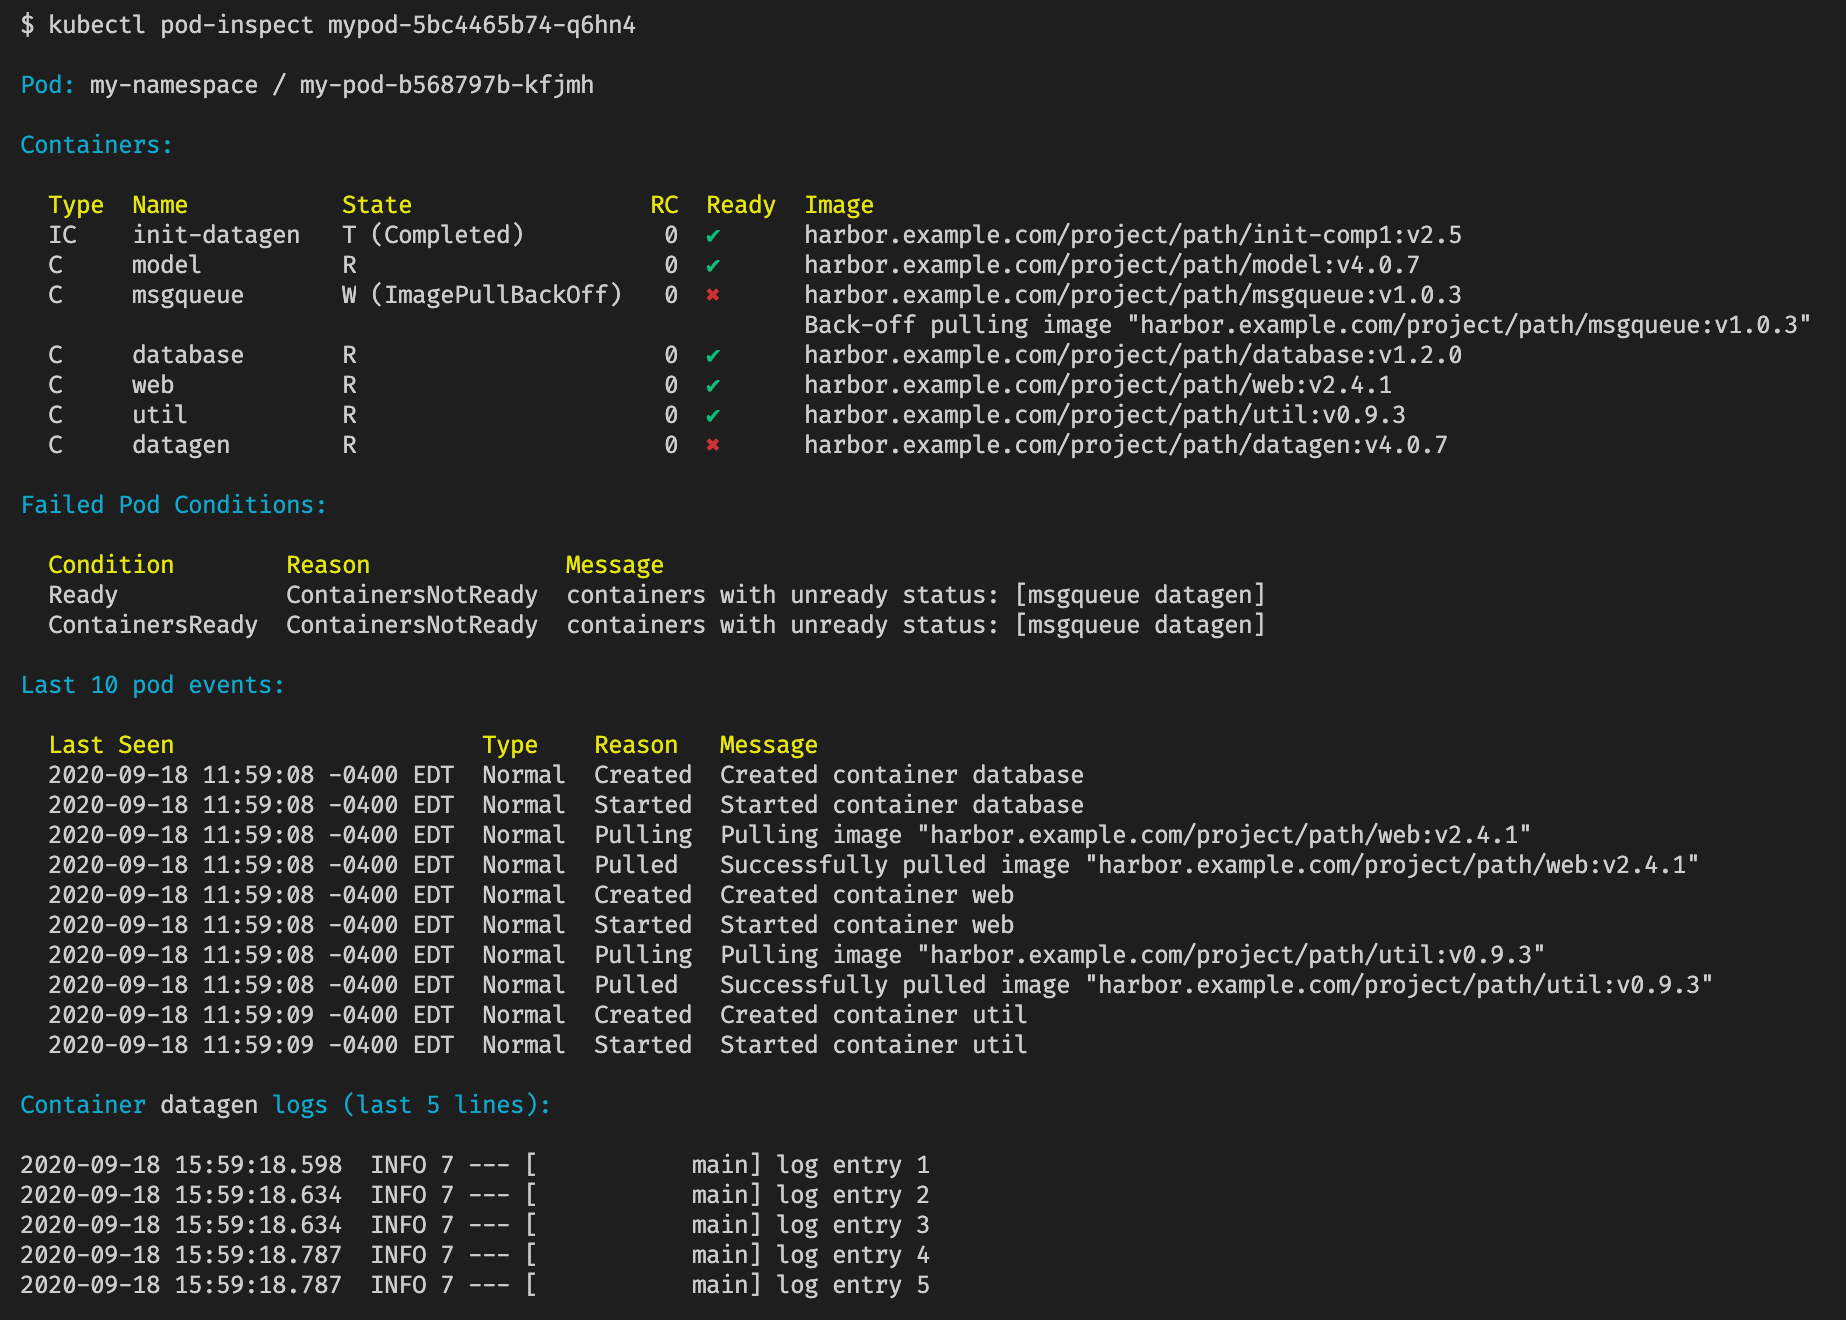
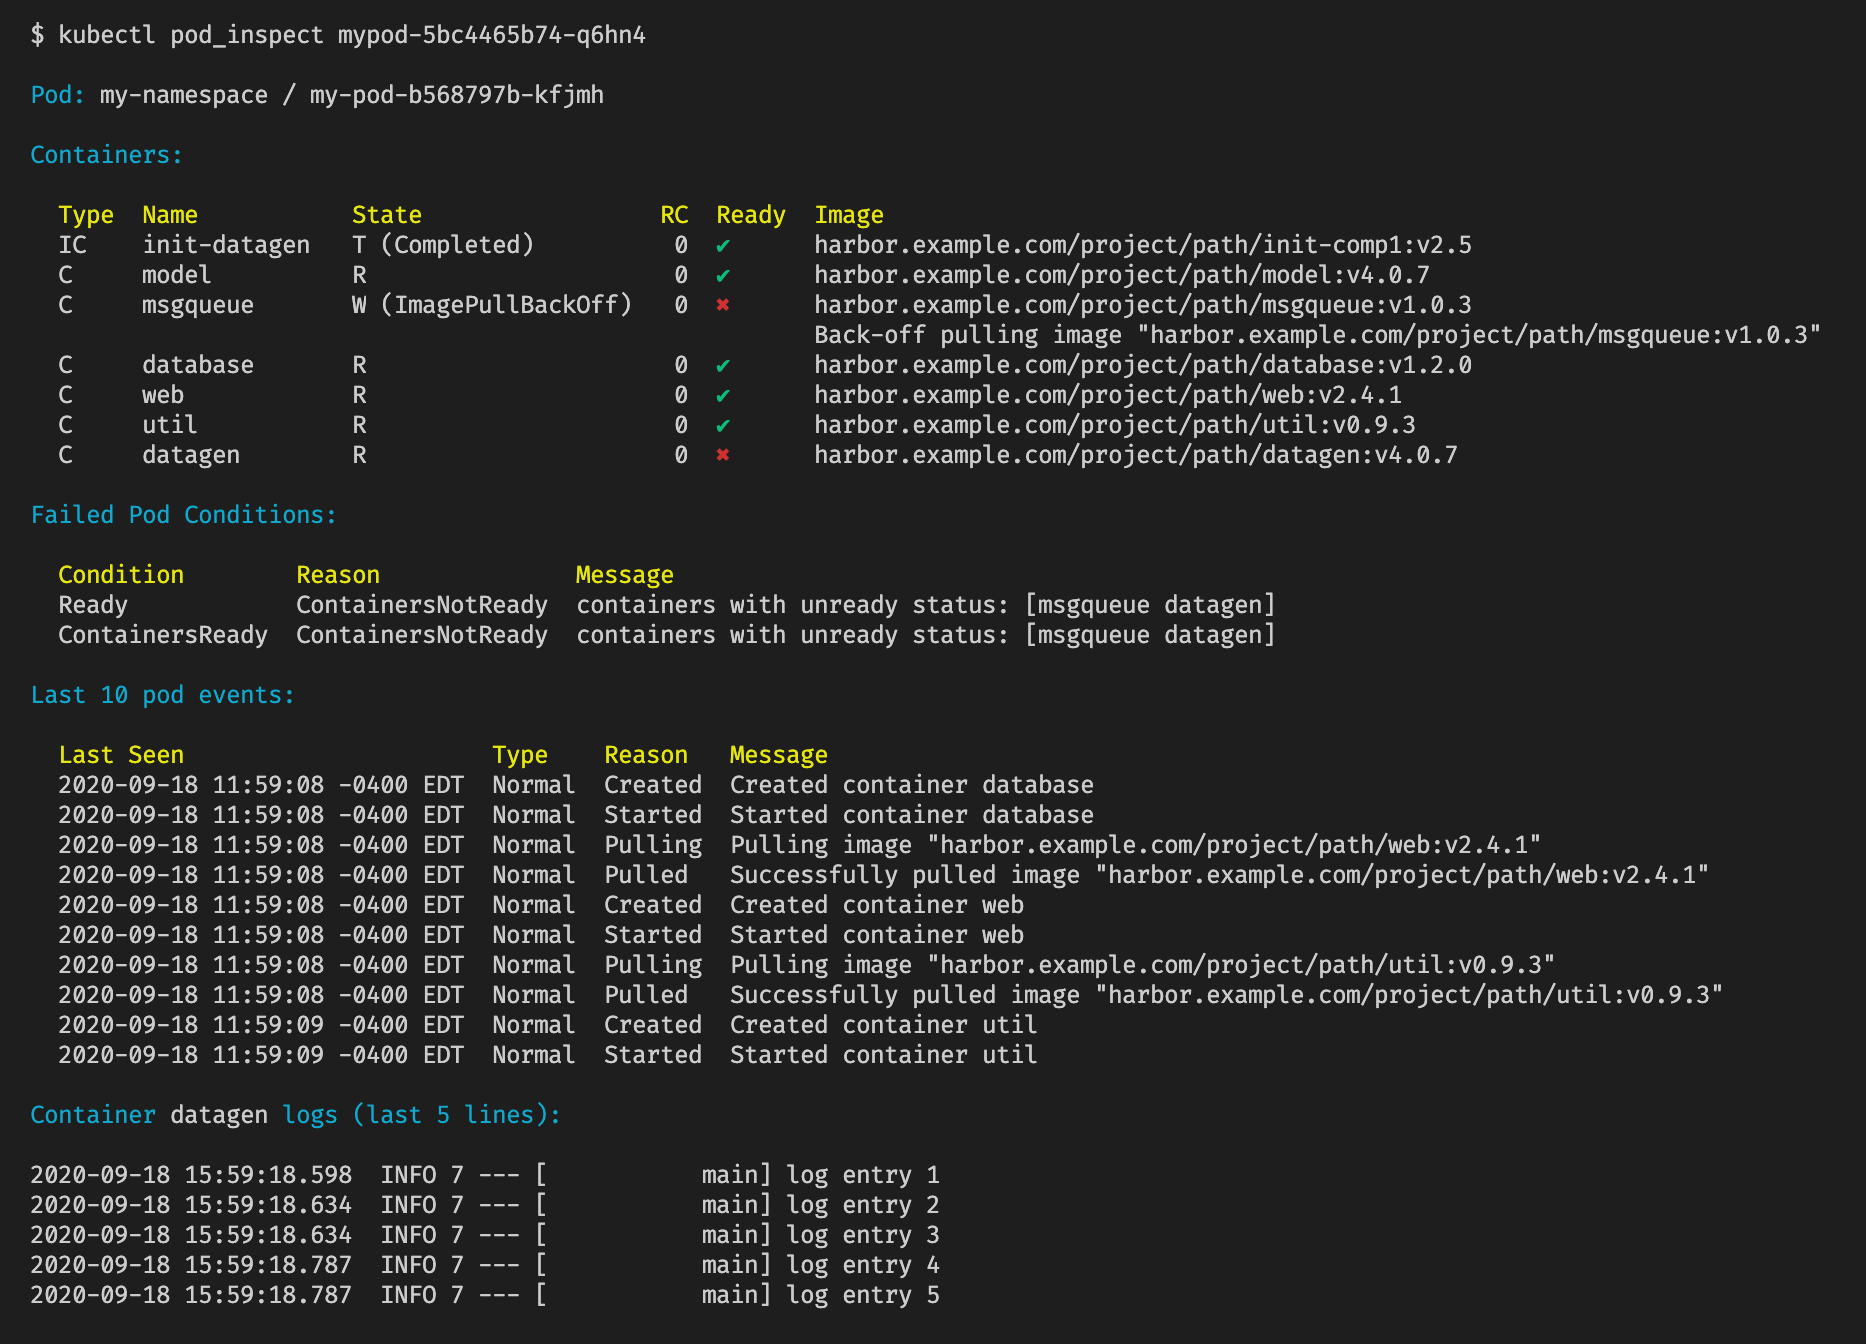
renamed project (again) b/c a dash in the plugin name doesn't work

diff --git a/cmd/pod_inspect_command.go b/cmd/pod_inspect_command.go
@@ -50,7 +50,7 @@ func NewPodInspectCommand(streams genericclioptions.IOStreams) *cobra.Command {
 	}
 
 	ccmd := &cobra.Command{
-		Use:          "kubectl pod-inspect <podname>",
+		Use:          "kubectl pod_inspect <podname>",
 		Short:        "Inspects a pod",
 		Long:         "Provides detailed information about a pod, including its containers' statuses, pod events, and logs from non-ready containers.",
 		SilenceUsage: true,

diff --git a/main.go b/main.go
@@ -3,7 +3,7 @@ package main
 import (
 	"os"
 
-	"github.com/jpriebe/kubectl-pod-inspect/cmd"
+	"github.com/jpriebe/kubectl-pod_inspect/cmd"
 	"k8s.io/cli-runtime/pkg/genericclioptions"
 )
 

diff --git a/cmd/version.go b/cmd/version.go
@@ -8,7 +8,7 @@ import (
 	"github.com/spf13/cobra"
 )
 
-const appLabel = "kubectl pod-inspect"
+const appLabel = "kubectl pod_inspect"
 
 var version string
 

diff --git a/README.md b/README.md
@@ -1,10 +1,10 @@
-# kubectl-pod-inspect
+# kubectl-pod_inspect
 
 When you have a pod composed of multiple containers, it can be tedious to identify which container
 is failing.  `kubectl describe` is just too verbose.  I got tired of searching the describe output for errors
 to track down the failed container.
 
-`kubectl-pod-inspect` gives you just enough information about the containers to figure out what is going on
+`kubectl-pod_inspect` gives you just enough information about the containers to figure out what is going on
 quickly:
 
 - a list of all containers and their current status and image
@@ -22,6 +22,6 @@ Container `datagen` is running, but hasn't completed startup yet.
 
 ## Installing
 
-To install, download the appropriate binary from the [release page](https://github.com/jpriebe/kubectl-pod-inspect/releases).  Save it somewhere in your path.
+To install, download the appropriate binary from the [release page](https://github.com/jpriebe/kubectl-pod_inspect/releases).  Save it somewhere in your path.
 
 You can also download this repository and install it using Makefile.
